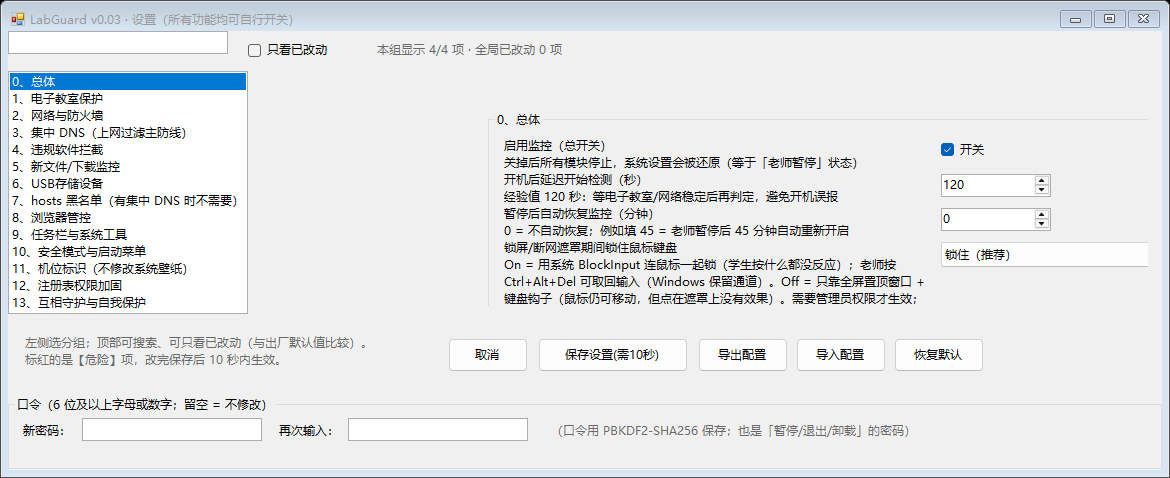
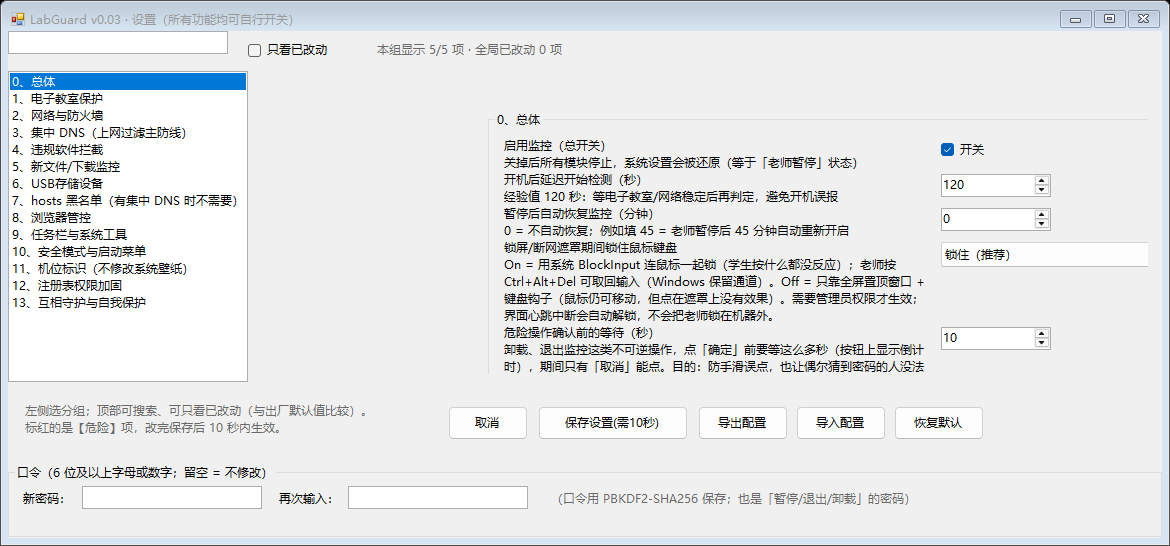
feat(confirm): countdown confirmation before destructive actions (P1-a)
Uninstall and 'exit monitoring' are irreversible, so both now go through a delayed confirm dialog: the OK button shows a live countdown and is disabled until it reaches zero, while Cancel stays available. New setting 'ConfirmDelaySeconds' (group 0, default 10s, 0 = no delay) so the teacher can turn it off. Config items 94 -> 95; docs and the two affected screenshots regenerated.

diff --git a/src/LabGuard.Core/UI/CountdownDialog.cs b/src/LabGuard.Core/UI/CountdownDialog.cs
@@ -1,0 +1,92 @@
+using System;
+using System.Drawing;
+using System.Windows.Forms;
+
+namespace LabGuard.Core.UI
+{
+    /// <summary>
+    /// 危险操作（卸载 / 退出监控）前的"延时确认"框：
+    /// 「确定」在 N 秒内不可点，按钮上显示倒计时；「取消」随时可用。
+    /// 目的：防手滑误点；也让偶尔猜到密码的学生没法一秒钟把管控清空。
+    /// <see cref="Confirm"/> 传入的秒数 ≤ 0 时退化成普通确认框。
+    /// </summary>
+    public sealed class CountdownDialog : Form
+    {
+        private readonly Timer _timer;
+        private readonly Button _ok;
+        private int _left;
+
+        private CountdownDialog(string title, string message, int seconds)
+        {
+            Text = title;
+            FormBorderStyle = FormBorderStyle.FixedDialog;
+            StartPosition = FormStartPosition.CenterScreen;
+            MaximizeBox = false;
+            MinimizeBox = false;
+            ClientSize = new Size(560, 264);
+            Font = new Font("微软雅黑", 9F);
+
+            var label = new Label
+            {
+                Text = message,
+                Left = 18,
+                Top = 16,
+                Width = 524,
+                Height = 168,
+                AutoSize = false
+            };
+            _ok = new Button { Left = 296, Top = 200, Width = 246, Height = 34 };
+            var cancel = new Button
+            {
+                Text = "取消",
+                Left = 186,
+                Top = 200,
+                Width = 100,
+                Height = 34,
+                DialogResult = DialogResult.Cancel
+            };
+
+            _left = Math.Max(0, seconds);
+            _ok.Enabled = _left == 0;
+            _ok.DialogResult = DialogResult.OK;
+            UpdateOkText();
+
+            _timer = new Timer { Interval = 1000 };
+            _timer.Tick += (s, e) =>
+            {
+                if (_left > 0) _left--;
+                UpdateOkText();
+                if (_left == 0) { _timer.Stop(); _ok.Enabled = true; }
+            };
+            if (_left > 0) _timer.Start();
+
+            AcceptButton = _ok;
+            CancelButton = cancel;
+            Controls.AddRange(new Control[] { label, _ok, cancel });
+        }
+
+        private void UpdateOkText()
+        {
+            _ok.Text = _left > 0 ? ("确定（还需 " + _left + " 秒）") : "确定";
+        }
+
+        protected override void Dispose(bool disposing)
+        {
+            if (disposing) _timer.Dispose();
+            base.Dispose(disposing);
+        }
+
+        /// <summary>弹出延时确认；返回 true = 用户已确认。seconds ≤ 0 时用普通确认框。</summary>
+        public static bool Confirm(string title, string message, int seconds)
+        {
+            if (seconds <= 0)
+            {
+                return MessageBox.Show(message, title, MessageBoxButtons.OKCancel, MessageBoxIcon.Warning) == DialogResult.OK;
+            }
+            using (var dlg = new CountdownDialog(title, message, seconds))
+            {
+                return dlg.ShowDialog() == DialogResult.OK;
+            }
+        }
+    }
+}

diff --git a/src/LabGuard.Core/Settings/SettingsCatalog.cs b/src/LabGuard.Core/Settings/SettingsCatalog.cs
@@ -59,6 +59,10 @@ namespace LabGuard.Core.Settings
                 "需要管理员权限才生效；界面心跳中断会自动解锁，不会把老师锁在机器外。",
                 c => c.InputHardLock, (c, v) => c.InputHardLock = (string)v,
                 new[] { "锁住（推荐）", "不锁" }, new[] { "On", "Off" }));
+            list.Add(Number("0、总体", "ConfirmDelaySeconds", "危险操作确认前的等待（秒）",
+                "卸载、退出监控这类不可逆操作，点「确定」前要等这么多秒（按钮上显示倒计时），期间只有「取消」能点。" +
+                "目的：防手滑误点，也让偶尔猜到密码的人没法一秒清空管控。0 = 不等待（不推荐）。",
+                0, 60, c => c.ConfirmDelaySeconds, (c, v) => c.ConfirmDelaySeconds = (int)v));
 
             // ============================================================ 1 电子教室
             list.Add(Bool("1、电子教室保护", "Classroom.Enabled", "启用电子教室保护（本组总开关）", null,

diff --git a/src/LabGuard.Uninstall/Program.cs b/src/LabGuard.Uninstall/Program.cs
@@ -117,12 +117,14 @@ namespace LabGuard.Uninstall
                 }
             }
 
-            if (!quiet && MessageBox.Show(
+            // 延时确认：卸载不可逆，按钮倒计时（默认 10 秒，可在设置第 0 组改；0 = 不等待）
+            if (!quiet && !CountdownDialog.Confirm(
+                    "卸载LabGuard",
                     "将卸载【LabGuard】并还原所有被改动的设置：\r\n\r\n" +
                     "· 恢复 USB 存储设备、hosts、浏览器策略、注册表策略、壁纸、IFEO、安全模式限制\r\n" +
                     "· 删除开机启动项、守护服务、快捷方式、控制面板卸载项\r\n\r\n" +
                     "卸载后建议重启电脑。确定继续吗？",
-                    "卸载LabGuard", MessageBoxButtons.OKCancel, MessageBoxIcon.Warning) != DialogResult.OK)
+                    config.ConfirmDelaySeconds))
             {
                 return;
             }

diff --git a/src/LabGuard.Agent/TrayApplicationContext.cs b/src/LabGuard.Agent/TrayApplicationContext.cs
@@ -149,6 +149,14 @@ namespace LabGuard.Agent
         private void ExitProgram()
         {
             if (!Verify("退出程序")) return;
+            // 延时确认：退出=停止管控，不可逆（要重新输密码才能开回来）
+            if (!CountdownDialog.Confirm("LabGuard - 退出程序",
+                    "将退出监控并还原被改动的系统设置（USB / hosts / 策略 / IFEO / 安全模式限制等）。\r\n\r\n" +
+                    "退出后学生将不再受管控；要重新开启，需要再输入密码。\r\n\r\n确定退出吗？",
+                    _config.ConfirmDelaySeconds))
+            {
+                return;
+            }
             _engine.Stop(markPaused: true);
             // 与服务一起退出，保证系统状态被还原
             Core.Interop.SystemActions.Run("net.exe", "stop " + WatchdogGuard.ServiceName);

diff --git a/src/LabGuard.Core/Config/GuardConfig.cs b/src/LabGuard.Core/Config/GuardConfig.cs
@@ -13,6 +13,11 @@ namespace LabGuard.Core.Config
         /// 默认 On：学生按什么都没反应；老师按 Ctrl+Alt+Del 可取回输入（Windows 保留通道）。
         /// </summary>
         public string InputHardLock { get; set; } = "On";
+        /// <summary>
+        /// 危险操作（卸载 / 退出监控）确认前的等待秒数：按钮显示倒计时，期间不可点。
+        /// 0 = 不等待（不推荐）。默认 10 秒。
+        /// </summary>
+        public int ConfirmDelaySeconds { get; set; } = 10;
         /// <summary>已安装/已启用管控的总开关；关闭后各 Guard 不再纠正系统状态。</summary>
         public bool Enabled { get; set; } = true;
         /// <summary>退出/暂停后自动恢复管控的时间（分钟），0 = 不自动恢复。</summary>

diff --git a/src/LabGuard.Installer/InstallerForm.cs b/src/LabGuard.Installer/InstallerForm.cs
@@ -258,7 +258,7 @@ namespace LabGuard.Installer
 
         private TabPage TabOptions()
         {
-            var page = new TabPage("5. 功能开关（94 项，可逐项开关）") { Padding = new Padding(10) };
+            var page = new TabPage("5. 功能开关（95 项，可逐项开关）") { Padding = new Padding(10) };
             var top = new Panel { Dock = DockStyle.Top, Height = 76 };
             var lbl = new Label { Text = "先套用一个预设，再按需逐项调整：", Left = 6, Top = 8, Width = 330 };
             _presetBox.Left = 6; _presetBox.Top = 30;

diff --git a/src/LabGuard.Settings/SettingsForm.cs b/src/LabGuard.Settings/SettingsForm.cs
@@ -14,7 +14,7 @@ namespace LabGuard.Settings
 {
     /// <summary>
     /// 设置程序：主体是 <see cref="SettingsPanel"/>（左侧分组导航 + 搜索 + 只看已改动 + 改动计数，
-    /// 内容由 <see cref="LabGuard.Core.Settings.SettingsCatalog"/> 驱动，共 14 组 / 94 项）。
+    /// 内容由 <see cref="LabGuard.Core.Settings.SettingsCatalog"/> 驱动，共 14 组 / 95 项）。
     /// 底部另有口令、导出/导入/恢复默认/保存。
     /// </summary>
     public class SettingsForm : Form

diff --git a/README.md b/README.md
@@ -28,7 +28,7 @@
 |---|---|---|
 | `LabGuard.Service.exe` | 守护服务 | Windows 服务（SYSTEM）：hosts 黑名单、USB 存储禁用、注册表权限加固、安全模式限制、浏览器组策略、新文件监控、守护代理进程 |
 | `LabGuard.Agent.exe` | 托盘交互 | 托盘小助手：课堂软件保护、网络/IP/防火墙守护、违规软件拦截、任务栏与 Win 键策略、互相守护；系统功能菜单（设置/暂停/退出，均需密码） |
-| `LabGuard.Settings.exe` | 配置界面 | 设置程序：密码 + **14 组 / 94 项开关**（左分组导航 + 搜索 + 只看已改动 + 改动计数）+ 导入导出 |
+| `LabGuard.Settings.exe` | 配置界面 | 设置程序：密码 + **14 组 / 95 项开关**（左分组导航 + 搜索 + 只看已改动 + 改动计数）+ 导入导出 |
 | `LabGuard.Uninstall.exe` | 卸载 | 卸载并**逐项还原**系统设置 |
 | `LabGuard.Launcher.exe` | 上网入口（可选） | 按设置里的主页启动学生机上的**真实浏览器**；默认不接管快捷方式，也不冒充任何软件 |
 | `LabGuard.SelfTest.exe` | — | 自检：验证口令/hosts/拦截清单，并用**干跑模式**完整启动-停止引擎（不修改系统） |
@@ -62,7 +62,7 @@
 | 3. 设置密码 | 输两遍；6 位及以上字母数字，弱口令会被拒绝 |
 | 3. **课堂软件** | 点【自动识别】查找极域 / 红蜘蛛 / 锐捷云课堂等学生端；**识别不到就手动填写或浏览选择**（留空也行，运行时会再自动探测） |
 | 4. 设置密码 | 输两遍，6 位以上字母数字 |
-| 5. **功能开关（94 项）** | 左分组导航 + 搜索 + 只看已改动；先套预设（普通PC机房 / 一体机机房 / 只管电子教室 / 全部放开），再逐项勾选；**AdGuard 相关的"集中 DNS"就在这里，不勾就是 A 档** |
+| 5. **功能开关（95 项）** | 左分组导航 + 搜索 + 只看已改动；先套预设（普通PC机房 / 一体机机房 / 只管电子教室 / 全部放开），再逐项勾选；**AdGuard 相关的"集中 DNS"就在这里，不勾就是 A 档** |
 | 5. 安装 | 点【开始安装】→ 实时日志 → 完成后可勾"立即启用监控"，并可一键打开设置复核 |
 
 装完自检（3 分钟）：
@@ -97,9 +97,9 @@ LabGuard-Setup-v0.01.exe --silent --password "你的密码123" [--config presets
 
 > `LabGuard.Settings.exe` 与 `LabGuard.Uninstall.exe` 需要管理员权限（会弹 UAC）；`LabGuard.Agent.exe` 由安装时创建的"最高权限计划任务"拉起。
 
-## 2.2 所有功能都由你自己开关（94 项全覆盖，带搜索与"只看已改动"）
+## 2.2 所有功能都由你自己开关（95 项全覆盖，带搜索与"只看已改动"）
 
-- 配置项共 **94 项**（含"集中 DNS""hosts 黑名单"这类**可选上网管控**），全部在设置程序里可见可改，分成 **14 组**：
+- 配置项共 **95 项**（含"集中 DNS""hosts 黑名单"这类**可选上网管控**），全部在设置程序里可见可改，分成 **14 组**：
   总体 / 电子教室保护 / 网络与防火墙 / 集中 DNS / 违规软件拦截 / 新文件监控 / USB / hosts / 浏览器 /
   任务栏与系统工具 / 安全模式 / 机位标识 / 注册表权限加固 / 互相守护。
 - 面板顶部有**搜索框**（当前分组内按名称/说明过滤）、**「只看已改动」**（与出厂默认值对比）、以及"本组显示 x/y · 全局已改动 N 项"计数；
@@ -107,7 +107,7 @@ LabGuard-Setup-v0.01.exe --silent --password "你的密码123" [--config presets
 - 每个开关 = 一个控件（勾选 / 下拉 / 数字 / 路径 / 多行列表），带中文说明；会造成关机、重启这类后果的项**标红加【危险】**，默认关闭。
 - 支持 **导出配置 / 导入配置**（一个 JSON 拷到所有学生机）、**恢复默认**（保留密码）。
 - 这条不是"承诺"，是**有自检兜底的保证**：
-  - `LabGuard.SelfTest.exe` 的 `[7] 设置项覆盖` 会反射遍历 `GuardConfig`，若某个配置项没有对应开关、或某个开关指向了不存在的字段、或 Get/Set 接错字段 → **直接报 FAIL**（当前：94 项全覆盖、0 隐藏项、93 个开关读写正确）。
+  - `LabGuard.SelfTest.exe` 的 `[7] 设置项覆盖` 会反射遍历 `GuardConfig`，若某个配置项没有对应开关、或某个开关指向了不存在的字段、或 Get/Set 接错字段 → **直接报 FAIL**（当前：95 项全覆盖、0 隐藏项、93 个开关读写正确）。
   - `LabGuard.Settings.exe --selftest-ui` 会真正构建一次界面并统计控件数（不显示窗口），用于确认"每个开关都渲染出来了"。
 
 ## 3. 功能一览（摘要，完整版见 [docs/03](docs/03-功能与开关清单.md)）
@@ -255,7 +255,7 @@ LabGuard.Installer.exe --screenshot D:\shots        :: 安装向导 6 页
 
 <img src="docs/screenshots/wizard-4-password.png" width="820">
 
-**5. 功能开关（94 项，逐项开或关）**
+**5. 功能开关（95 项，逐项开或关）**
 
 <img src="docs/screenshots/wizard-5-switches.png" width="820">
 
@@ -265,7 +265,7 @@ LabGuard.Installer.exe --screenshot D:\shots        :: 安装向导 6 页
 
 </details>
 
-### 8.3 设置程序（14 组 / 94 项开关）
+### 8.3 设置程序（14 组 / 95 项开关）
 
 左侧分组导航（带"已改 N 项"标记）+ 右上搜索 + 只看已改动。**没有任何隐藏开关**：自检会核对每个配置项都能在界面上找到（见第 5 节）。
 

diff --git a/docs/04-机房部署指南.md b/docs/04-机房部署指南.md
@@ -32,7 +32,7 @@
 **首选：一键安装程序（单文件 exe）**
 
 1. 从 [Releases](https://github.com/ikeee/labguard/releases) 下载 **`LabGuard-Setup-v0.01.exe`**（或完整包 `labguard-v0.01.zip`）；
-2. 拷到学生机（U 盘/内网共享/文件服务都行）→ **双击** → 向导：合规确认 → 安装位置 → **课堂软件（自动识别/手动填写）** → 密码 → **功能开关（94 项，可搜索/只看已改动）** → 安装；见 `README.md` 第 2 节；
+2. 拷到学生机（U 盘/内网共享/文件服务都行）→ **双击** → 向导：合规确认 → 安装位置 → **课堂软件（自动识别/手动填写）** → 密码 → **功能开关（95 项，可搜索/只看已改动）** → 安装；见 `README.md` 第 2 节；
 3. 内网自取也可以：把 exe 放到共享（如 `\\fileserver\share\`），学生机双击运行即可。
 
 其它来源（按需）：完整包 `labguard-v0.01.zip` 里的 `dist\` 是"脚本部署版"；从源码构建用 `scripts\build.ps1 -SelfTest` + `scripts\build-installer.ps1`。

diff --git a/docs/03-功能与开关清单.md b/docs/03-功能与开关清单.md
@@ -7,7 +7,7 @@
 
 # 功能与开关清单
 
-> 每个功能都对应设置程序里的一个开关（共 **94 项 / 14 组**），并且由自检强制"无隐藏开关"：
+> 每个功能都对应设置程序里的一个开关（共 **95 项 / 14 组**），并且由自检强制"无隐藏开关"：
 > `LabGuard.SelfTest.exe` 的 `[7] 设置项覆盖` 会反射核对"配置项集合 == 界面开关集合"，并做读写往返校验。
 
 ## 1. 功能总览
